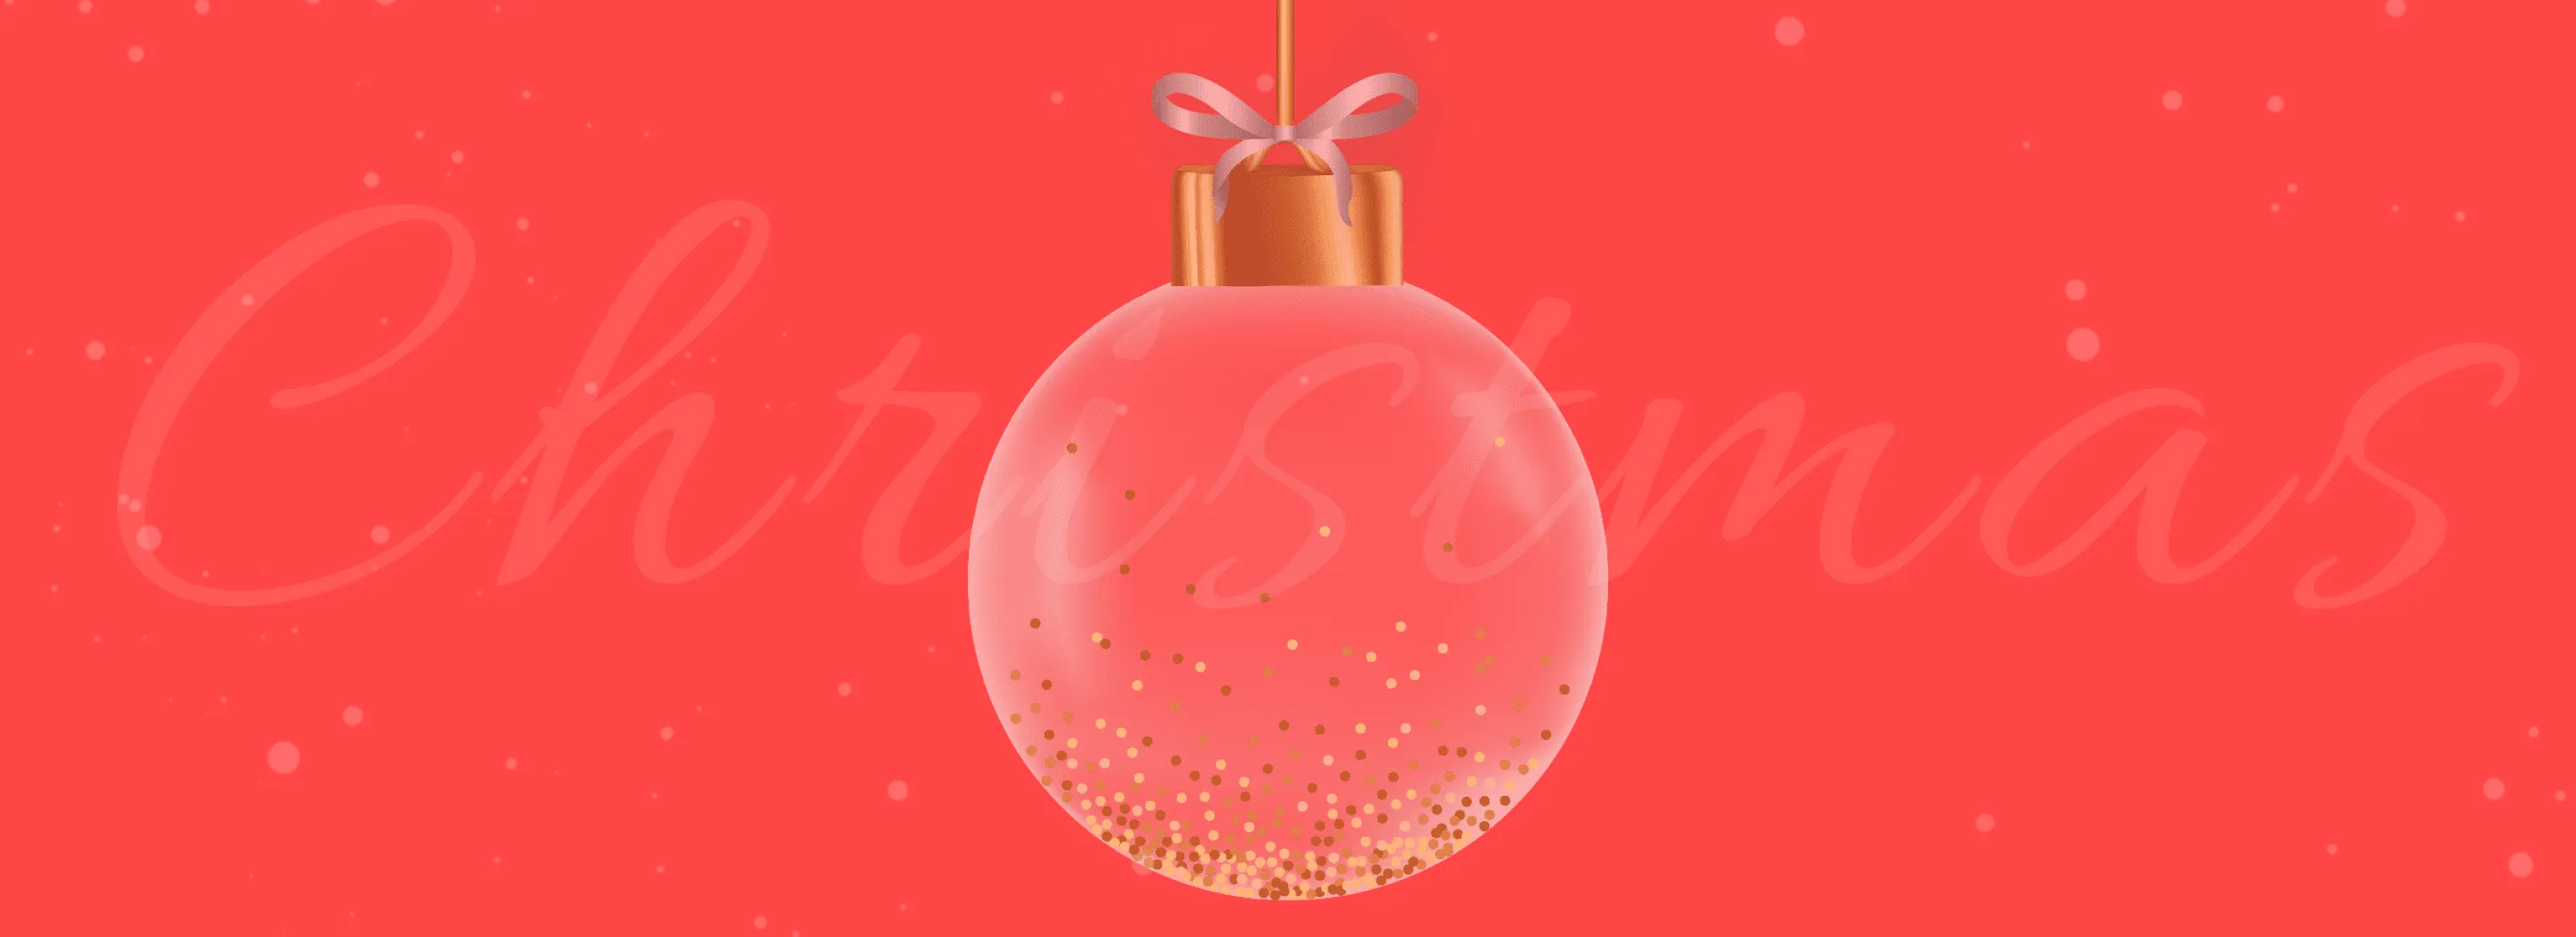
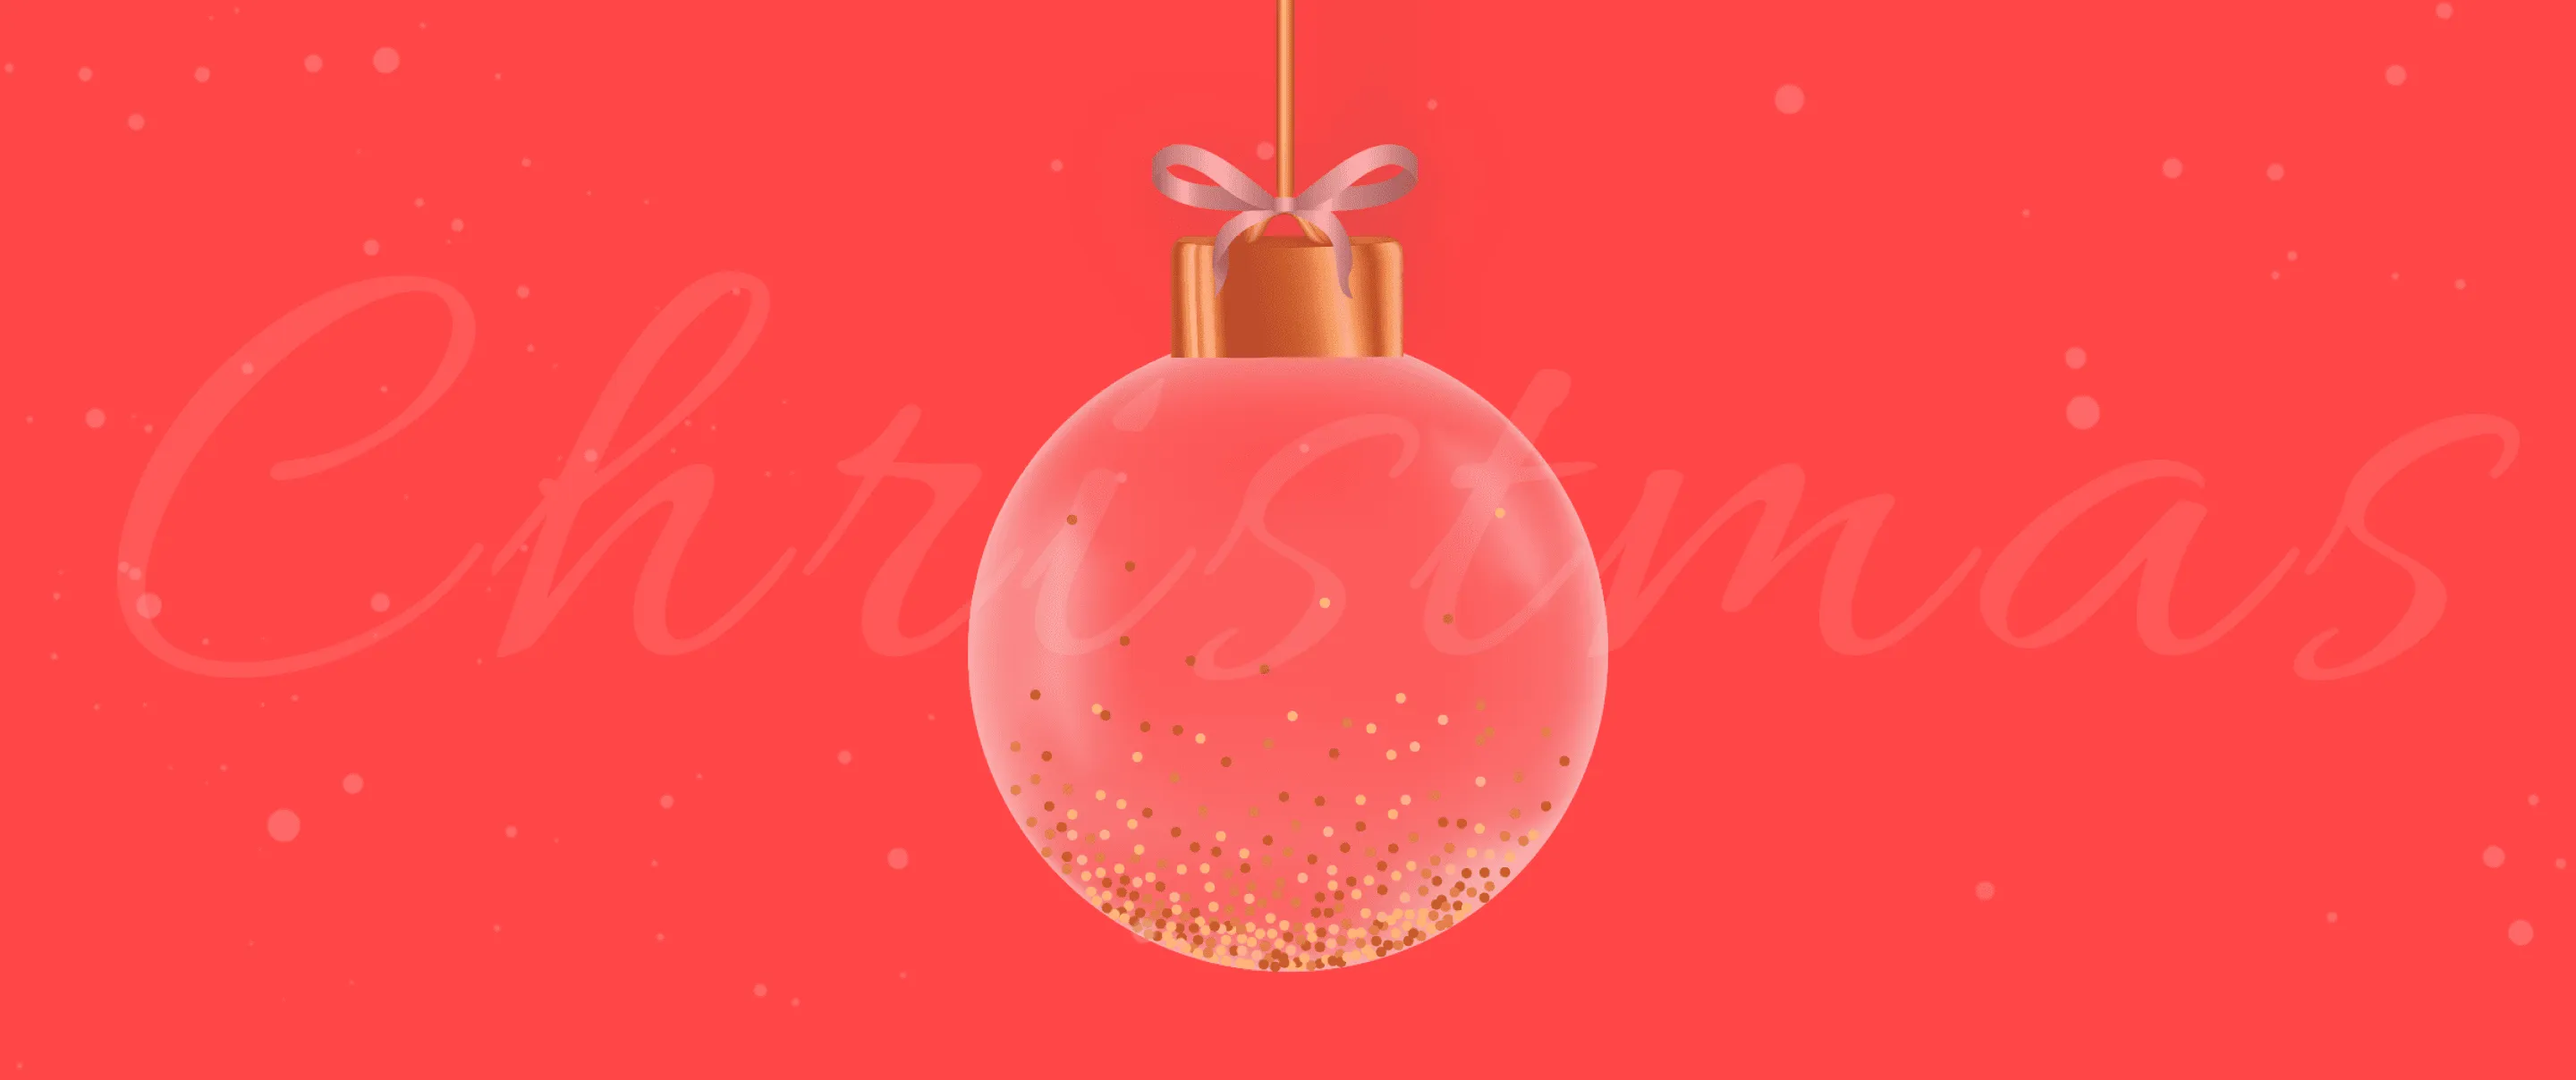
fix: fix section-hero

diff --git a/christmas-shop/src/components/section-hero/section-hero.scss b/christmas-shop/src/components/section-hero/section-hero.scss
@@ -5,7 +5,7 @@
 .section-hero {
   color: $color-static-white;
   background-image: url("@/assets/images/background-hero.webp");
-  background-position: cover;
+  background-position:;
   border-radius: 20px 20px 0 0;
 
   &__container {
@@ -15,12 +15,7 @@
     align-items: center;
     justify-content: center;
 
-    height: 572px;
     padding-block: 120px;
-
-    @include media-md {
-      height: 524px;
-    }
   }
 
   &__title {
